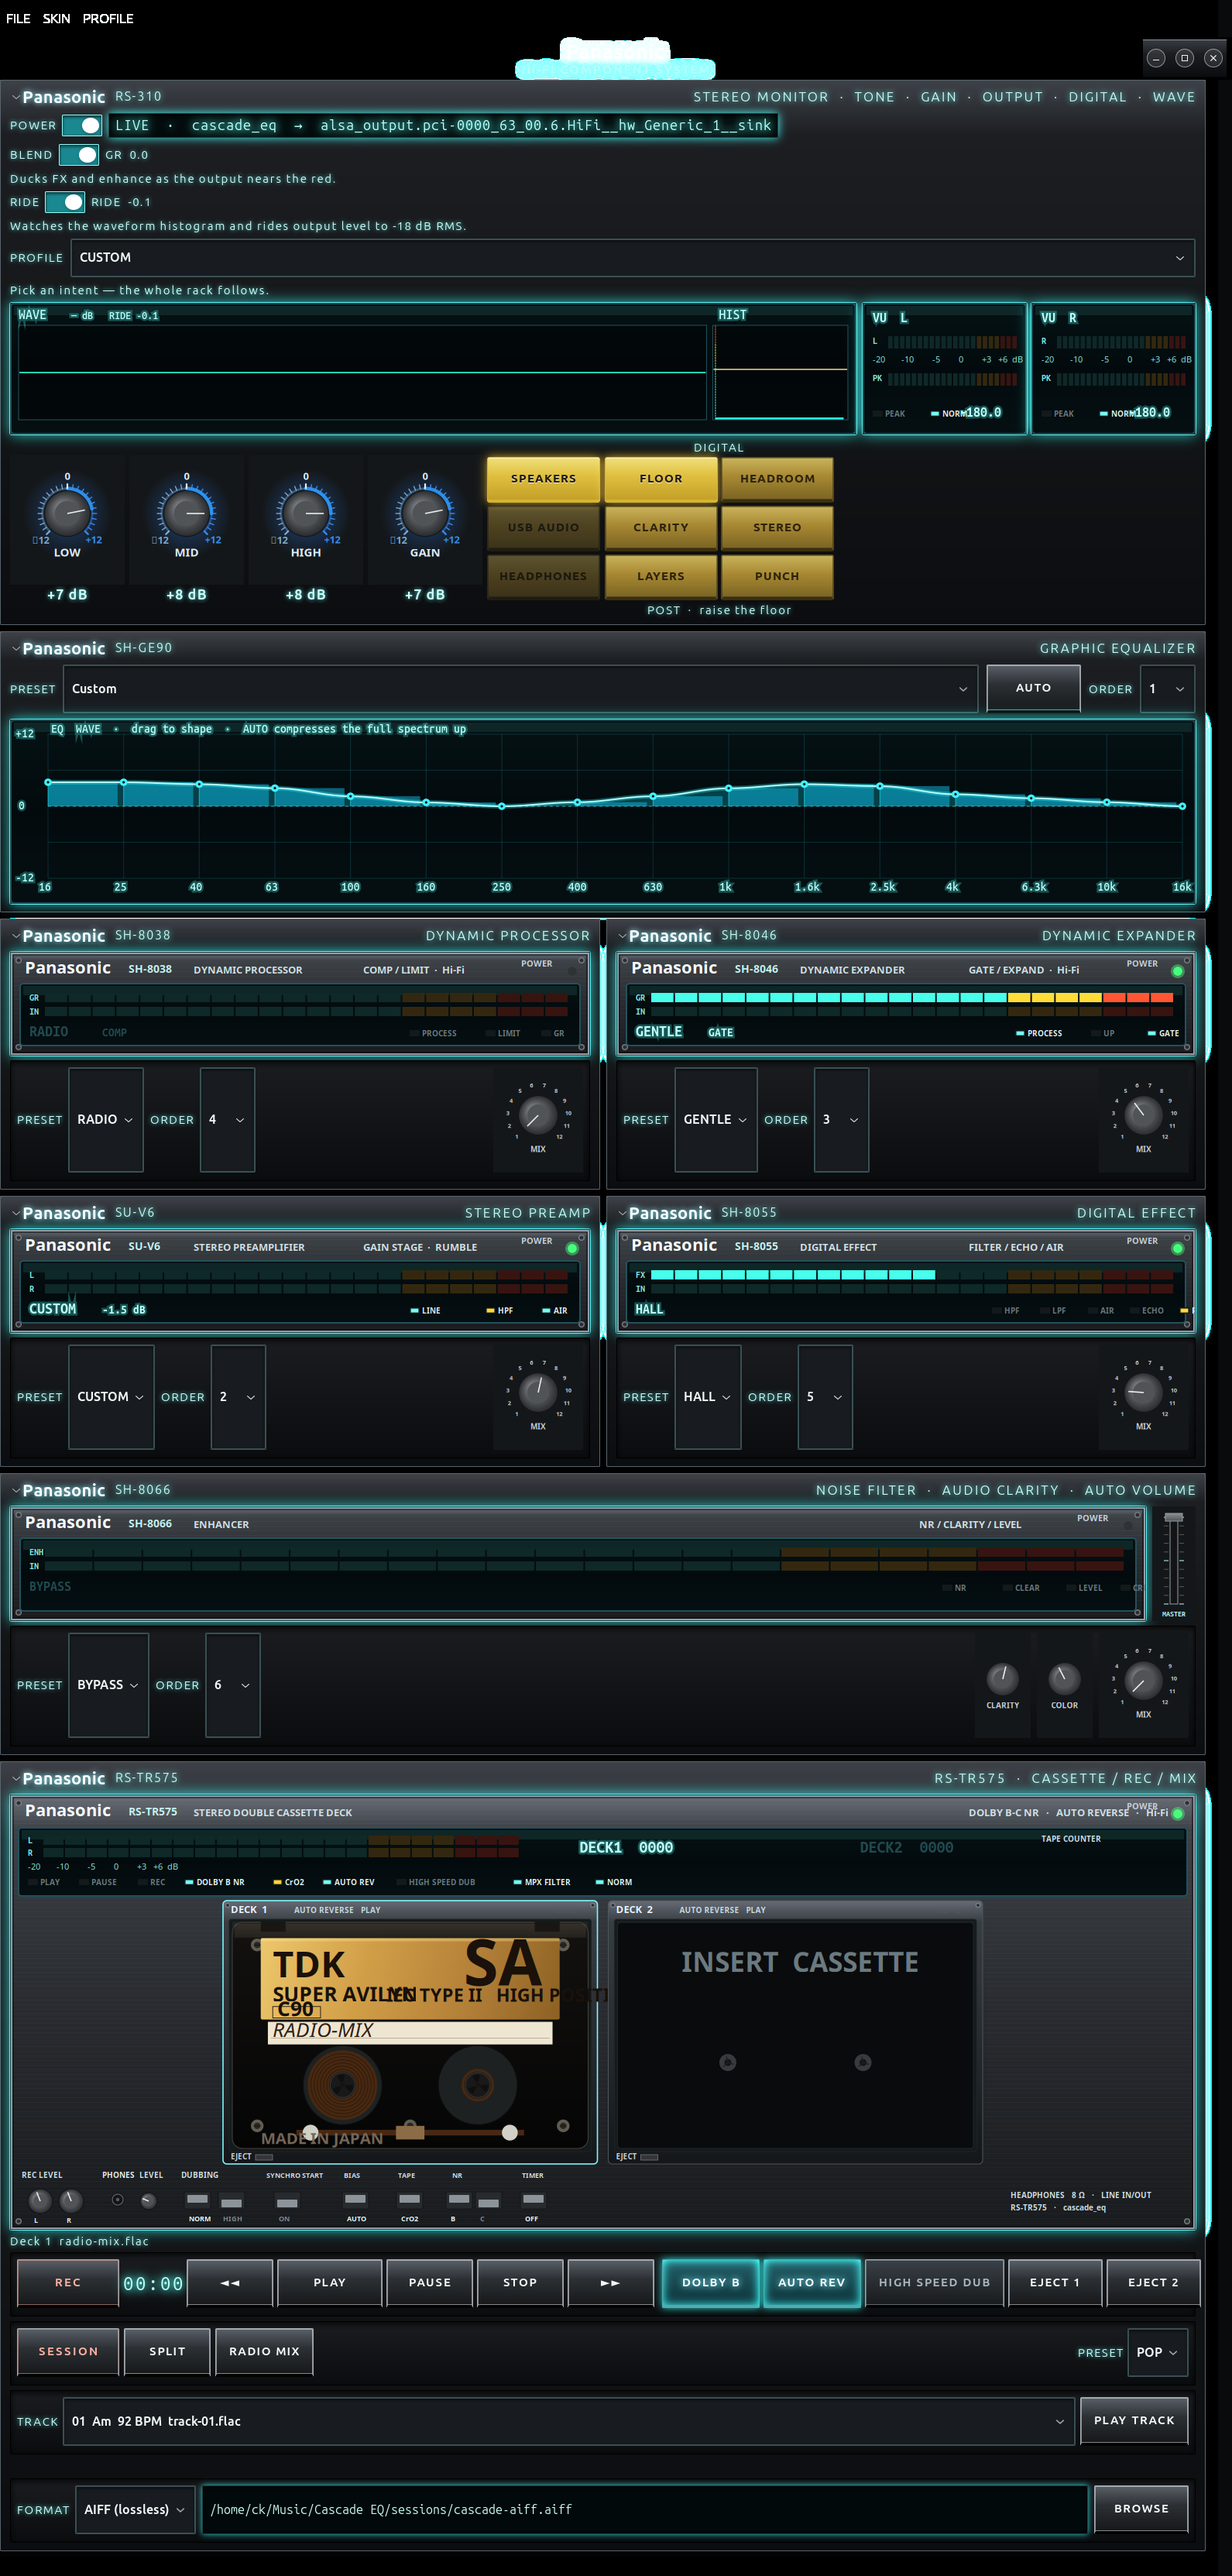
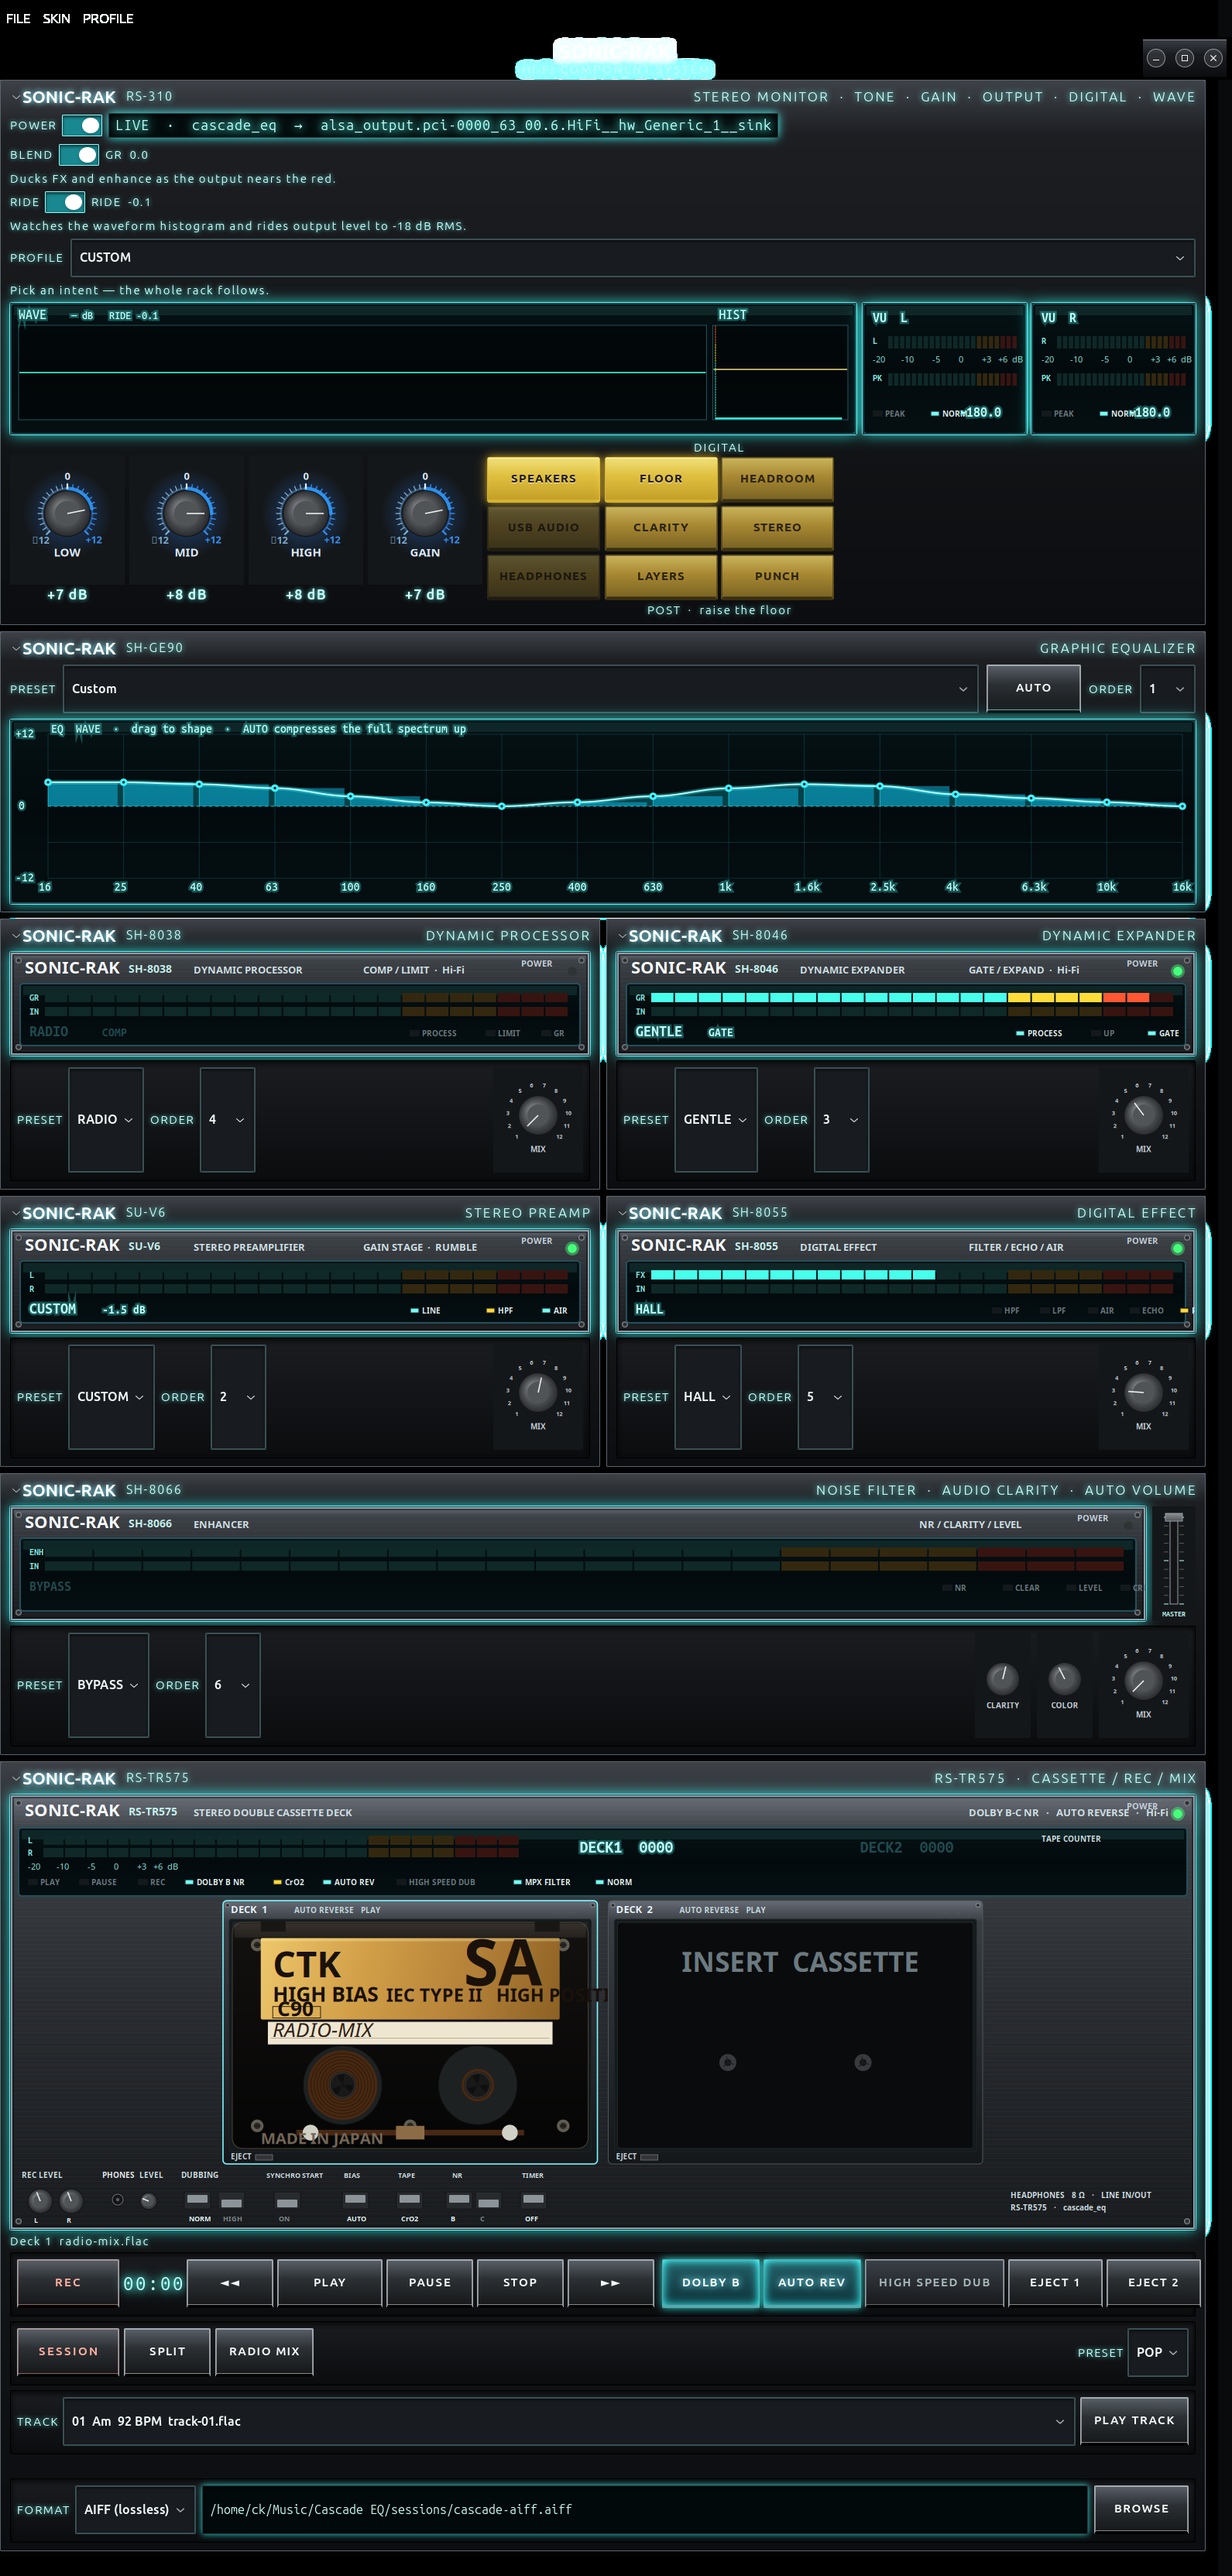
Rebrand the rack as SONIC-RAK and the cassette tapes as CTK.

diff --git a/cascade_eq/gui.py b/cascade_eq/gui.py
@@ -1254,7 +1254,7 @@ def _pana_switch(cr, x: float, y: float, label: str, on: bool) -> None:
 
 
 class RackKnobView(CairoDraw):
-    """Panasonic-style rotary dial. Mix knobs snap to 12 even ticks (1–12)."""
+    """SONIC-RAK rotary dial. Mix knobs snap to 12 even ticks (1–12)."""
 
     def __init__(
         self, label: str, value: float = 1.0, on_change=None, steps: int = MIX_STEPS, bipolar: bool = False
@@ -1430,7 +1430,7 @@ class RackFaderView(CairoDraw):
 
 
 class CassetteDeckView(CairoDraw):
-    """Panasonic RS-TR575-style dual cassette faceplate."""
+    """SONIC-RAK dual cassette faceplate."""
 
     # IEC 60094 compact cassette is 100.4 × 63.8 mm.
     _CASSETTE_ASPECT = 100.4 / 63.8
@@ -1674,7 +1674,7 @@ class CassetteDeckView(CairoDraw):
             _src(cr, "door_title")
             cr.move_to(x + 10, y + 16)
             cr.show_text(f"BAY {index + 1}")
-            self._tdk_sa(cr, ix + 4, iy + 4, iw - 8, ih - 8, self.paths[index], index)
+            self._ctk_sa(cr, ix + 4, iy + 4, iw - 8, ih - 8, self.paths[index], index)
             return
         _rrect(cr, ix, iy, iw, ih, 14 if form == "mesh" else 3)
         cr.set_source_rgb(0.04, 0.045, 0.05)
@@ -1703,7 +1703,7 @@ class CassetteDeckView(CairoDraw):
         cr.set_source_rgb(0.25, 1.0, 0.78) if playing_here else cr.set_source_rgb(0.32, 0.36, 0.36)
         cr.move_to(x + w - 34, y + 16)
         cr.show_text("►")
-        self._tdk_sa(cr, ix + 4, iy + 4, iw - 8, ih - 8, self.paths[index], index)
+        self._ctk_sa(cr, ix + 4, iy + 4, iw - 8, ih - 8, self.paths[index], index)
         cr.select_font_face("Cantarell", cairo.FONT_SLANT_NORMAL, cairo.FONT_WEIGHT_BOLD)
         cr.set_font_size(10)
         cr.set_source_rgb(0.78, 0.82, 0.86)
@@ -1787,7 +1787,7 @@ class CassetteDeckView(CairoDraw):
     def _knob(self, cr, cx: float, cy: float, r: float, pos: float) -> None:
         _pana_knob(cr, cx, cy, r, pos)
 
-    def _tdk_sa(self, cr, x: float, y: float, w: float, h: float, path: Path | None, index: int) -> None:
+    def _ctk_sa(self, cr, x: float, y: float, w: float, h: float, path: Path | None, index: int) -> None:
         # IEC 60094 compact cassette is 100.4 × 63.8 mm.
         aspect = 100.4 / 63.8
         ch = min(h, w / aspect)
@@ -1819,7 +1819,7 @@ class CassetteDeckView(CairoDraw):
         cr.rectangle(x + w * 0.08, y - 1, tab_w, tab_h)
         cr.rectangle(x + w * 0.85, y - 1, tab_w, tab_h)
         cr.fill()
-        # Five Philips screws, as on TDK's mid-80s shells.
+        # Five Philips screws on the shell corners and bottom center.
         for sx, sy in (
             (x + w * 0.07, y + h * 0.10),
             (x + w * 0.93, y + h * 0.10),
@@ -1839,7 +1839,7 @@ class CassetteDeckView(CairoDraw):
             cr.line_to(sx + h * 0.016, sy)
             cr.stroke()
 
-        # 1985–87 TDK SA gold foil A-side label.
+        # CTK SA gold foil A-side label.
         lx, ly, lw, lh = x + w * 0.08, y + h * 0.07, w * 0.84, h * 0.36
         _rrect(cr, lx, ly, lw, lh, 2.2)
         foil = cairo.LinearGradient(lx, ly, lx + lw, ly + lh)
@@ -1856,7 +1856,7 @@ class CassetteDeckView(CairoDraw):
         cr.select_font_face("Cantarell", cairo.FONT_SLANT_NORMAL, cairo.FONT_WEIGHT_BOLD)
         cr.set_font_size(max(11, h * 0.16))
         cr.move_to(lx + lw * 0.04, ly + lh * 0.48)
-        cr.show_text("TDK")
+        cr.show_text("CTK")
         cr.set_font_size(max(18, h * 0.28))
         sa = "SA"
         tw = cr.text_extents(sa)[4]
@@ -1864,7 +1864,7 @@ class CassetteDeckView(CairoDraw):
         cr.show_text(sa)
         cr.set_font_size(max(7, h * 0.09))
         cr.move_to(lx + lw * 0.04, ly + lh * 0.78)
-        cr.show_text("SUPER AVILYN")
+        cr.show_text("HIGH BIAS")
         cr.set_font_size(max(6.5, h * 0.08))
         cr.move_to(lx + lw * 0.42, ly + lh * 0.78)
         cr.show_text("IEC TYPE II   HIGH POSITION")
@@ -1891,7 +1891,7 @@ class CassetteDeckView(CairoDraw):
         cr.move_to(sx + 6, sy + sh * 0.68)
         cr.show_text(path.stem.upper()[:24])
 
-        # Twin round windows and oxide pancakes — TDK SA 82–86 style.
+        # Twin round windows and oxide pancakes.
         frac = self.frac if index == self.active else 0.08
         spinning = index == self.active and self.playing
         hub_y = y + h * 0.72
@@ -1993,7 +1993,7 @@ class CassetteDeckView(CairoDraw):
 
 
 class VintageLa2aView(CairoDraw):
-    """Panasonic-style compressor or preamp faceplate."""
+    """SONIC-RAK compressor or preamp faceplate."""
 
     def __init__(self, kind: str) -> None:
         self.kind = kind

diff --git a/cascade_eq/cli.py b/cascade_eq/cli.py
@@ -875,7 +875,7 @@ def cmd_session_mix(args: argparse.Namespace) -> int:
 def build_parser() -> argparse.ArgumentParser:
     p = argparse.ArgumentParser(
         prog="cascade-eq",
-        description="System-wide Ubuntu equalizer with compressor and limiter (PipeWire).",
+        description="SONIC-RAK system-wide Ubuntu equalizer with compressor and limiter (PipeWire).",
         formatter_class=argparse.RawDescriptionHelpFormatter,
         epilog=textwrap.dedent(
             """\

diff --git a/cascade_eq/skins.py b/cascade_eq/skins.py
@@ -312,7 +312,7 @@ scrollbar trough {{ background: {c["scroll_trough"]}; }}
 _EIGHTIES = {
     "id": "1980s",
     "label": "1980s Fluorescent",
-    "brand_name": "Panasonic",
+    "brand_name": "SONIC-RAK",
     "tagline": "HI-FI COMPONENT SYSTEM",
     "light": False,
     "glow": True,

diff --git a/cascade_eq/__init__.py b/cascade_eq/__init__.py
@@ -1,4 +1,4 @@
-"""Cascade EQ — system-wide PipeWire equalizer for Ubuntu."""
+"""SONIC-RAK (Cascade EQ) — system-wide PipeWire equalizer for Ubuntu."""
 
 __version__ = "1.2.0"
 APP_ID = "dev.cascade.Equalizer"

diff --git a/README.md b/README.md
@@ -1,12 +1,12 @@
 # Audioscapes
 
-Hear more of every song on Linux. Audioscapes is a vintage audio rack that sits between your apps and your speakers, headphones, or USB interface and shapes the whole mix — not just one player.
+Hear more of every song on Linux. Audioscapes is a **SONIC-RAK** vintage audio rack that sits between your apps and your speakers, headphones, or USB interface and shapes the whole mix — not just one player.
 
 It equalizes, compresses, and lifts buried low, mid, and high so thin tracks fill out. You get a 16-band graphic EQ with a live analyzer and AUTO, a 3-band tone stack, dynamics, FX, output routing, and a cassette-style deck for recording and radio mixes. Closing the panel does not stop processing.
 
-The engine is **Cascade EQ** on PipeWire, using **LSP** plugins (the same DSP family Easy Effects uses): Graphic Equalizer x16 Stereo, Compressor Stereo, and Limiter Stereo. The control panel is a native GTK4 / libadwaita app.
+The engine is **Cascade EQ** on PipeWire, using **LSP** plugins (the same DSP family Easy Effects uses): Graphic Equalizer x16 Stereo, Compressor Stereo, and Limiter Stereo. The control panel is a native GTK4 / libadwaita SONIC-RAK app.
 
-![Audioscapes vintage audio rack](docs/audioscapes-rack.png)
+![SONIC-RAK audio rack](docs/audioscapes-rack.png)
 
 ## Download
 
@@ -69,7 +69,7 @@ Every subcommand supports `--help` with examples. `--dry-run` prints the plan wi
 
 `enable` creates a virtual sink named `cascade_eq`, points it at your current hardware output (speakers, headphones, Bluetooth), and makes it the default device so every app is processed.
 
-The processed mix can be recorded to lossless (FLAC, WAV, WavPack, AIFF) or lossy (MP3, Ogg Vorbis, Opus, AAC) files. Model **370** is drawn as a Panasonic RS-TR575 dual cassette deck and plays files (including `radio-mix.flac`) through the `cascade_eq` sink so they run the same EQ as system audio. Use EJECT 1 / EJECT 2 to load wells, or RADIO MIX to seat the last mix in the selected deck. **HIGH SPEED DUB** plays the source well at 2× through the rack, records it, restores a 1× tape, and loads the other well. With **DOLBY B** off, cassette playback uses tape color (high-end roll-off and wow). The graphic EQ shows a live 16-band RTA; **AUTO** stays on and listens every 4 beats, then flattens loud bands. Press AUTO again to stop. Cassette tracks use their analyzed BPM; otherwise the live tempo guess is used.
+The processed mix can be recorded to lossless (FLAC, WAV, WavPack, AIFF) or lossy (MP3, Ogg Vorbis, Opus, AAC) files. Model **370** is the SONIC-RAK dual cassette deck and plays files (including `radio-mix.flac`) through the `cascade_eq` sink so they run the same EQ as system audio. Use EJECT 1 / EJECT 2 to load wells, or RADIO MIX to seat the last mix in the selected deck. **HIGH SPEED DUB** plays the source well at 2× through the rack, records it, restores a 1× tape, and loads the other well. With **DOLBY B** off, cassette playback uses tape color (high-end roll-off and wow). The graphic EQ shows a live 16-band RTA; **AUTO** stays on and listens every 4 beats, then flattens loud bands. Press AUTO again to stop. Cassette tracks use their analyzed BPM; otherwise the live tempo guess is used.
 
 **Profiles** set the whole rack for one intent (EQ, dynamics, expander, preamp, FX, and enhance together). On the 310 monitor unit pick **PROFILE**, or:
 
